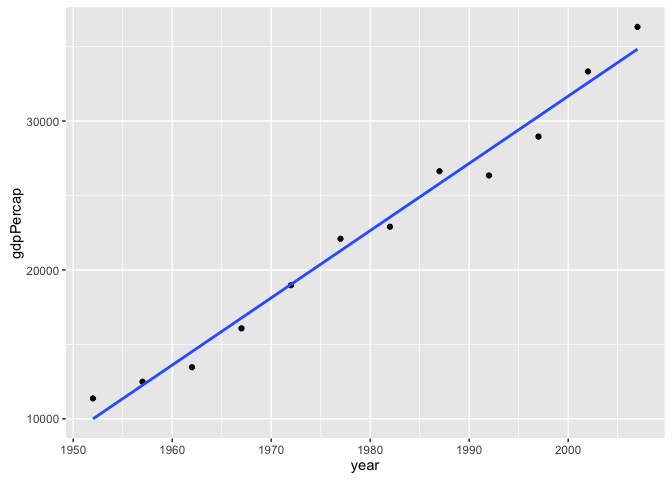
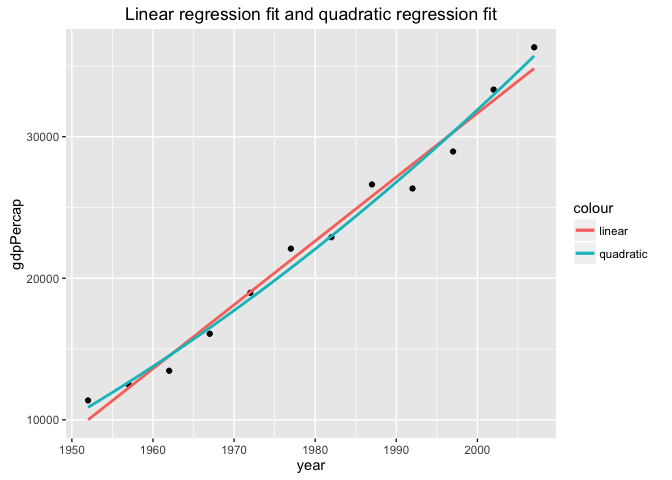
Homework 06

diff --git a/hw06_data-wrangling-conclusion.md b/hw06_data-wrangling-conclusion.md
@@ -1024,21 +1024,36 @@ Writing functions
 my_gap %>% 
   ggplot(aes(x = year, y = gdpPercap)) +
   geom_point() +
-  geom_smooth(method = "lm", se = FALSE)
+  geom_smooth(method = "lm", aes(color = "linear"), se = FALSE) +
+  geom_smooth(method = "lm", formula = y ~ x + I(x^2), aes(color = "quadratic"), se = FALSE) + 
+  ggtitle("Linear regression fit and quadratic regression fit")
 ```
 
 ![](hw06_data-wrangling-conclusion_files/figure-markdown_github/unnamed-chunk-31-1.png)
 
 ``` r
-my_fit <- function(dat, offset = 1952) {
+## linear regression function
+linear_fit <- function(dat, offset = 1952) {
   the_fit <- lm(gdpPercap ~ I(year - offset), dat)
   setNames(coef(the_fit), c("intercept", "slope"))
 }
-my_fit(my_gap)
+linear_fit(my_gap)
 ```
 
     ## intercept     slope 
     ## 9995.7799  451.4533
+
+``` r
+## quadratic regression function
+quadratic_fit <- function(dat, offset = 1952) {
+  the_fit <- lm(gdpPercap ~ I(year - offset) + I((year - offset)^2), dat)
+  setNames(coef(the_fit), c("intercept", "slope1", "slope2"))
+}
+quadratic_fit(my_gap)
+```
+
+    ##    intercept       slope1       slope2 
+    ## 10877.450839   345.652815     1.923646
 
 Work with the candy data
 ------------------------
